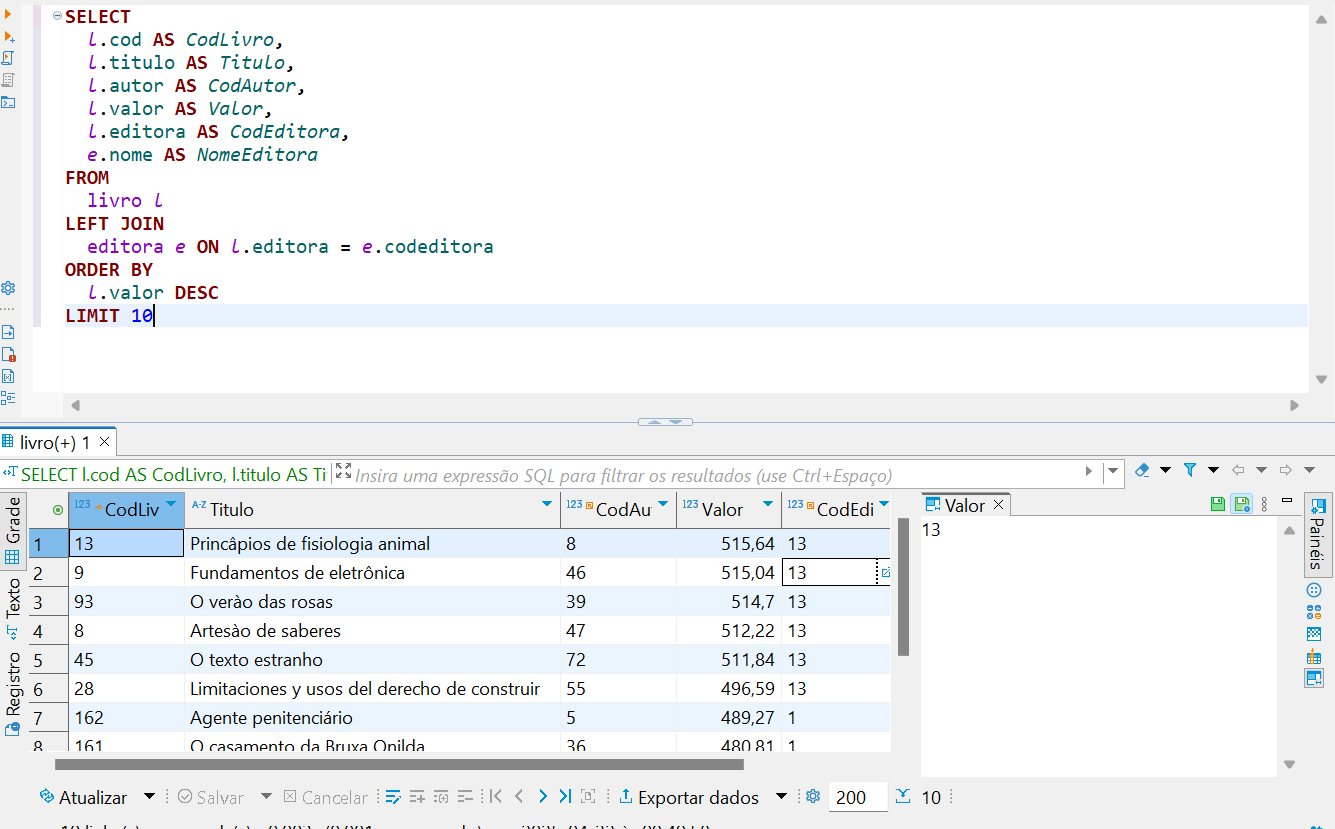
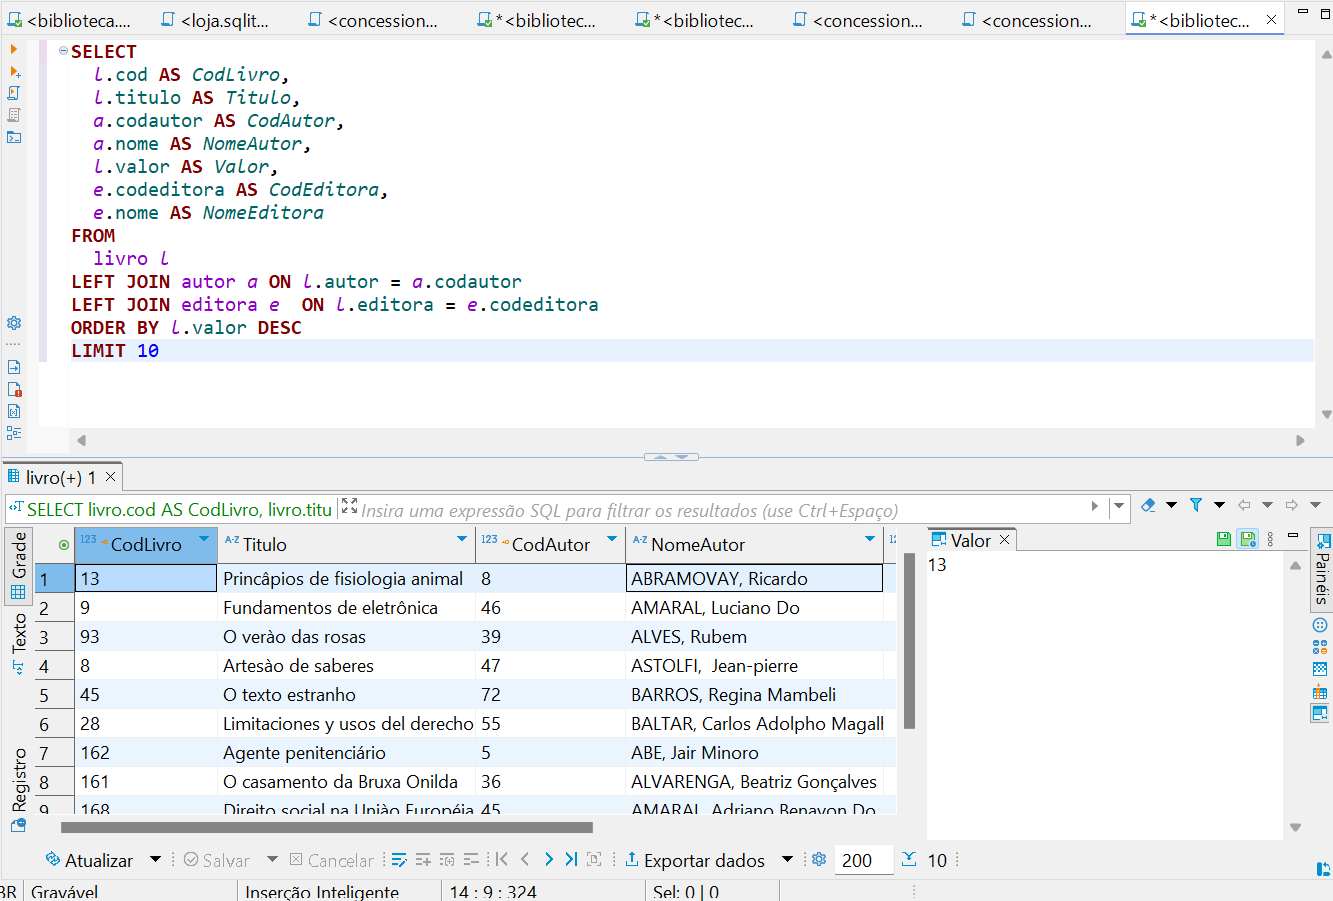
terceiro commit

diff --git a/Sprint 1/README.md b/Sprint 1/README.md
@@ -40,7 +40,11 @@ Esta sprint foi bastante interessante e enriquecedora, pois tive a oportunidade 
 
 # [Desafio](./Desafio/) 
 
-jkmkmkmk
+No desafio dessa sprint 1 foi pedido uma normalização da base de dados concessionária e mostrarmos os resultados inicialmente por meio da modelagem relacional. Após isso, utilizando essas tabelas normalizadas, seria necessário realizar uma modelagem dimensional. As evidências do desafio constam em duas pastas: [Desafio](./Desafio/) e  [Evidencias](./Evidencias/). Na qual a primeira concentra-se o arquivo do banco de dados, os diagramas e os arquivos sql, a segunda possui as evidências das imagens.
+
+Esse desafio foi bastante interessante, pude realmente me "desafiar" foi a primeira vez que tive um contato com essa estrutura e formato, foram dias de muito pensamento e "quebrando a cabeça", mas vi um crescimento incrível de conhecimentos adquiridos, minhas squad me ajudou bastante para chegar até essa solução final. Ansiosa para os próximos!
+
+[Readme Desafio](./Desafio/README.md)
 
 ---
 
@@ -133,19 +137,19 @@ Resolução: No SELECT, defini as colunas desejadas e calculei o total de vendas
 
 > 14. Apresente a query para listar o gasto médio por estado da federação. As colunas presentes no resultado devem ser estado e gastomedio. Considere apresentar a coluna gastomedio arredondada na segunda casa decimal e ordenado de forma decrescente. Observação: Apenas vendas com status concluído.
 
-Resolução:
+Resolução: No SELECT informei as colunas que deveriam me retornar os resultados: a do nome do estado e o de gastomedio, na qual realizei o cálculo do  valor bruto de cada venda (qtd * vrunt) e a média desse valor arredondando para 2 casas decimais. Por meio da TBVENDAS realizei o filtro  dos registros para considerar apenas as vendas que foram concluídas, agrupei os dados por estado, para saber o gasto médio por estado e ordenei  o resultado de forma decrescente para mostrar primeiro os estados com maior gasto médio.
 
 [Resposta Ex.14](./Exercícios/2.%20Exercicio%20Loja/exercício14.sql)
 
 > 15. Apresente a query para listar os códigos das vendas identificadas como deletadas. Apresente o resultado em ordem crescente.
 
-Resolução:
+Resolução: Utilizei a tabela TBVENDAS e filtrei as vendas com a coluna deletado igual a 1, que indica que foram deletadas. No SELECT retornei apenas o código da venda e ordenei o resultado de forma crescente.
 
 [Resposta Ex.15](./Exercícios/2.%20Exercicio%20Loja/exercício15.sql)
 
 > 16. Apresente a query para listar a quantidade média vendida de cada produto agrupado por estado da federação. As colunas presentes no resultado devem ser estado e nmprod e quantidade_media. Considere arredondar o valor da coluna quantidade_media na quarta casa decimal. Ordene os resultados pelo estado (1º) e nome do produto (2º). Obs: Somente vendas concluídas.
 
-Resolução:
+Resolução: Utilizei a tabela TBVENDAS e apliquei o filtro WHERE para considerar apenas vendas concluídas. No SELECT, retornei as colunas de estado, nome do produto e a média de quantidade vendida, arredondada para quatro casas decimais. Agrupei os dados por estado e produto, e ordenei o resultado primeiro pelo nome do estado e depois pelo nome do produto.
 
 [Resposta Ex.16](./Exercícios/2.%20Exercicio%20Loja/exercício16.sql)
 
@@ -154,13 +158,21 @@ Resolução:
 
 ## 2.3 Exercício Extração de Dados
 
-1. Exportar o resultado da query que obtém os 10 livros mais caros para um arquivo CSV. Utilizar o caractere ";" (ponto e vírgula) como separador. Lembre-se que o conteúdo do seu arquivo deverá respeitar a sequência de colunas e seus respectivos nomes de cabeçalho que listamos abaixo: CodLivro Titulo CodAutor NomeAutor Valor CodEditora NomeEditora
+> 1. Exportar o resultado da query que obtém os 10 livros mais caros para um arquivo CSV. Utilizar o caractere ";" (ponto e vírgula) como separador. Lembre-se que o conteúdo do seu arquivo deverá respeitar a sequência de colunas e seus respectivos nomes de cabeçalho que listamos abaixo: CodLivro Titulo CodAutor NomeAutor Valor CodEditora NomeEditora
 
-[Etapa 1 - CSV](./Exercícios/3.%20Exercício%20Extração%20de%20Dados/etapa1.csv)
+Resolução: No SELECT, defini as colunas com alias para corresponder aos nomes exigidos no arquivo CSV. Utilizei dois LEFT JOIN, um para associar a tabela de autores e outro para a de editoras. A ordenação foi feita com base no valor do livro em ordem decrescente, retornando os 10 livros mais caros com o LIMIT 10.
 
-2. Exportar o resultado da query que obtém as 5 editoras com maior quantidade de livros na biblioteca para um arquivo CSV. Utilizar o caractere "|" (pipe) como separador. Lembre-se que o conteúdo do seu arquivo deverá respeitar a sequência de colunas e seus respectivos nome de cabeçalho que listamos abaixo: CodEditora NometEditora QuantidadeLivros
+[Etapa 1 - CSV](./Exercícios/3.%20Exercício%20Extração%20de%20Dados/etapa_1.csv)
 
-[Etapa 2 - CSV](./Exercícios/3.%20Exercício%20Extração%20de%20Dados/etapa2.csv)
+[Etapa 1 - SQL](./Exercícios/3.%20Exercício%20Extração%20de%20Dados/etapa1.sql)
+
+> 2. Exportar o resultado da query que obtém as 5 editoras com maior quantidade de livros na biblioteca para um arquivo CSV. Utilizar o caractere "|" (pipe) como separador. Lembre-se que o conteúdo do seu arquivo deverá respeitar a sequência de colunas e seus respectivos nome de cabeçalho que listamos abaixo: CodEditora NometEditora QuantidadeLivros
+
+Resolução: Utilizei SELECT com alias para os nomes exigidos no CSV. Após isso, fiz um LEFT JOIN entre editora e livro e usei COUNT para contar os livros por editora, agrupei com GROUP BY, ordenei por quantidade de livros em ordem decrescente e limitei o resultado aos 5 primeiros com LIMIT 5.
+
+[Etapa 2 - CSV](./Exercícios/3.%20Exercício%20Extração%20de%20Dados/etapa_2.csv)
+
+[Etapa 2 - SQL](./Exercícios/3.%20Exercício%20Extração%20de%20Dados/etapa2.sql)
 
 
 
@@ -238,17 +250,17 @@ Resolução:
 ![Evidência 13](./Exercícios/2.%20Exercicio%20Loja/Evidências/exercício13.png)
 
 
-14. . Conforme podemos ver na imagem a seguir:
+14. A query retorna corretamente os estados com seus respectivos gastos médios, em ordem decrescente, atendendo aos critérios estabelecidos no enunciado. Conforme podemos ver na imagem a seguir:
 
 ![Evidência 14](./Exercícios/2.%20Exercicio%20Loja/Evidências/exercício14.png)
 
 
-15. . Conforme podemos ver na imagem a seguir:
+15. A query retorna corretamente os códigos das vendas deletadas, em ordem crescente. Conforme podemos ver na imagem a seguir:
 
 ![Evidência 15](./Exercícios/2.%20Exercicio%20Loja/Evidências/exercício15.png)
 
 
-16. . Conforme podemos ver na imagem a seguir:
+16. A query retorna corretamente a quantidade média vendida por produto em cada estado, respeitando o ordenamento e o arredondamento exigido. Conforme podemos ver na imagem a seguir:
 
 ![Evidência 16](./Exercícios/2.%20Exercicio%20Loja/Evidências/exercício16.png)
 
@@ -257,14 +269,13 @@ Resolução:
 
 ## 2.3 Exercício Extração de Dados
 
+Etapa 1. A query retornou corretamente os 10 livros com os maiores valores cadastrados na base, incluindo informações completas do autor e da editora. A estrutura está adequada para exportação em formato CSV com separador ; conforme solicitado.
 
+![Evidência - Etapa 1](./Exercícios/3.%20Exercício%20Extração%20de%20Dados/Evidências/etapa1.png)
 
+Etapa 2. A query retornou corretamente as 5 editoras com o maior número de livros registrados na base, incluindo seus respectivos códigos, nomes e quantidade total de publicações. A estrutura do resultado está pronta para exportação em formato CSV com separador pipe, conforme especificado.
 
-
-
-
-
-
+![Evidência - Etapa 2](./Exercícios/3.%20Exercício%20Extração%20de%20Dados/Evidências/etapa2.png)
 
 
 ---
@@ -273,8 +284,7 @@ Resolução:
 # Certificados
 
 
-Certificado do Curso ABC
+Nessa sprint não houve certificados
 
-![Curso ABC](./Certificados/sample.png)
 
 

diff --git a/Sprint 1/Desafio/README.md b/Sprint 1/Desafio/README.md
@@ -1,27 +1,26 @@
-# Instruções
+# 🚀 Desafio 
 
-Neste arquivo você apresentará suas entregas referentes ao desafio. Utilize o diretório "Desafio" para organizar seus artefatos e este README.md para fazer referência aos arquivos de código-fonte e demais entregáveis solicitados.
+## 📌 Resumo
 
-Esperamos que haja, minimamente:
+Por meio desse desafio pude ter meu primeiro contato com uma atividade voltada à modelagem de dados. A seguir estarei compartilhando o passo a passo de como foi o processo de construção do modelo relacional e dimensional:
 
-- Passo a passo para obter o resultado entregue do desafio.
-- Trechos de códigos e suas explicações.
-- Relacionamento com a pasta de evidências (imagens).
+### Modelo relacional
+Para a construção do modelo relacional é necessário fazer a normalização de dados, com o objetivo de evitar redundâncias, garantir integridade e facilitar futuras análises. Inicialmente foi necessário compreender a base de dados concessionária observando as entidades, os dados e sua formatação. Após essa identificação fui criando uma tabela para as principais entidades com seus respectivos atributos, criando uma chave primária (de identificação) para cada uma, além disso, também criei chaves estrangeiras para realizar ligação entre tabelas. Após esse tratamento o modelo está mais organizado e reduziu redundâncias. Segue o código utilizado:
 
+[Modelo Relacional](./etapa-1/modelo_relacional.sql)
 
-# Etapas
+Para a construção do diagrama entidade-relacionamento utilizei a ferramenta draw.io, onde fiz a ligação entre tabelas informando o tipo de ligação. Como pode ver a seguir:
 
+![Diagrama Modelo Relacional](./etapa-1/DER_modelo_relacional.png)
 
-1. ... [Etapa I](etapa-1)
+### Modelo Dimensional
 
-    Nessa etapa pode-se perceber com esse código:
-    ```
-    Esta é uma linha de código
-    ```
-    Obtive esse retorno
-    ![amostra](../Evidencias/sample.webp)
+Nesse modelo vamos construir as tabelas no formato de fatos, contém os dados quantitativos e métricas que queremos analisar, e dimensões, os detalhes descritivos que ajudam a entender os fatos. A partir do modelo relacional anterior criei views que representam as tabelas no formato de estrela. A primeira tabela foi a dimensão tempo, onde foi criada a partir da data da locação, ela separa a data em  dia, mês e ano, ficando mais fácil fazer análises temporais. A segunda foi a dimensão cliente, em que copiou os dados do cliente direto da tabela original, permitindo cruzar métricas com características dos cliente. A terceira foi a dimensão carro, na qual junta dados dos carros com o tipo de combustível, que originalmente estava em outra tabela. A última dimensão foi  vendedor, onde mostra os dados dos vendedores. Por fim, criei a tabela fato locação na qual incluí as métricas principais, além dos IDs das dimensões para realizar a ligação entre elas. Segue o código utilizado:
 
+[Modelo Dimensional](./etapa-2/modelo_dimensional.sql)
 
+Para a construção do diagrama entidade-relacionamento utilizei a ferramenta draw.io, onde fiz a ligação entre tabelas informando o tipo de ligação. Como pode ver a seguir:
 
+![Diagrama Modelo Dimensional](./etapa-2/DER_modelo_dimensional.png)
 
-
+Dessa forma, consegui tratar a base de dados fornecida inicialmente, tornando a análise  mais simples, rápida e eficiente.
